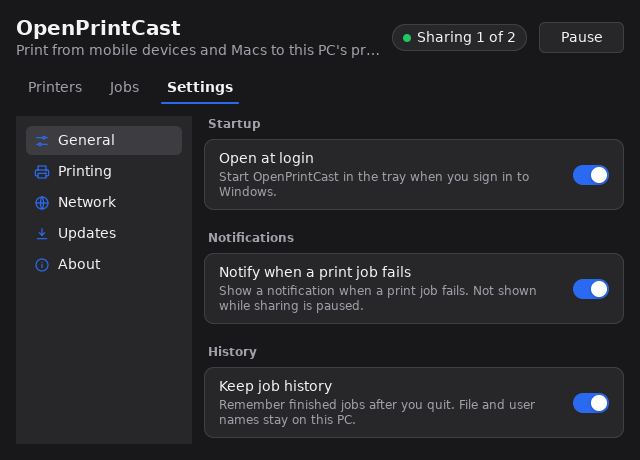
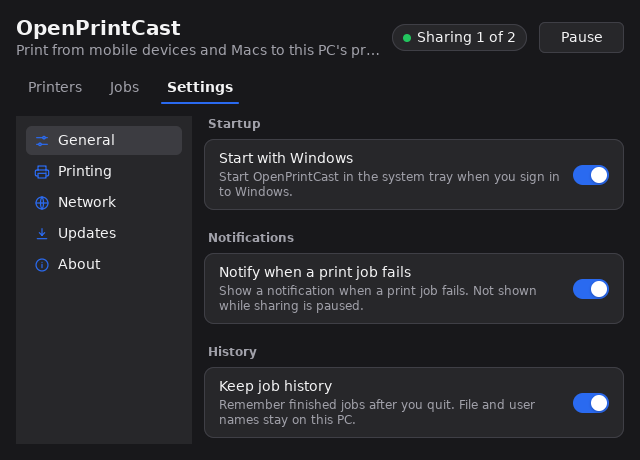
Reword the tray copy, and call the startup switch Start with Windows
The site now says the app runs in the system tray, the term Windows uses,
and lists what it does for you in plain sentences. The app's setting was
labelled Open at login, a macOS phrase; Windows users expect Start with
Windows. Update the label, its explanation and error message, the tests,
the docs, and the Settings screenshots on the site.

Changed region(s): [[0.5938, 0.3652, 0.875, 0.3957], [0.3438, 0.3348, 0.5625, 0.3652], [0.3438, 0.3957, 0.4688, 0.4261]]

diff --git a/docs/index.html b/docs/index.html
@@ -227,7 +227,7 @@
     <section class="section" id="how" aria-labelledby="how-title">
       <h2 id="how-title">Share a printer in three steps.</h2>
       <ol class="steps">
-        <li data-anim><span class="num" aria-hidden="true">1</span><h3>Open it</h3><p>OpenPrintCast lives in the tray. Close the window and it keeps running.</p></li>
+        <li data-anim><span class="num" aria-hidden="true">1</span><h3>Open it</h3><p>OpenPrintCast runs in the system tray. Close the window and it keeps sharing.</p></li>
         <li data-anim><span class="num" aria-hidden="true">2</span><h3>Switch on a printer</h3><p>On the Printers tab, turn on the ones you want to share.</p></li>
         <li data-anim><span class="num" aria-hidden="true">3</span><h3>Tap Print</h3><p>Pick it in the print dialog on your device. On a Mac, add it once in Printers &amp; Scanners.</p></li>
       </ol>
@@ -235,12 +235,12 @@
 
     <section class="section split" aria-labelledby="tray-title">
       <div class="split-text" data-anim>
-        <h2 id="tray-title">Starts with Windows.<br>Lives in the tray.</h2>
+        <h2 id="tray-title">Runs quietly in your system tray.</h2>
         <ul class="ticks">
-          <li><strong>Open at login</strong> starts it with Windows, hidden in the tray.</li>
-          <li><strong>Notifications</strong> tell you the moment a print job fails.</li>
-          <li><strong>Job history</strong> is still there after a restart. Turn it off whenever you like.</li>
-          <li><strong>Light and dark</strong> follow your Windows theme.</li>
+          <li><strong>Starts when you sign in</strong> to Windows.</li>
+          <li><strong>Tells you</strong> the moment a print job fails.</li>
+          <li><strong>Remembers</strong> your recent jobs. Turn that off whenever you like.</li>
+          <li><strong>Follows</strong> your Windows light or dark theme.</li>
         </ul>
       </div>
       <figure class="shot fade" data-anim>
@@ -248,7 +248,7 @@
           <source media="(max-width: 600px) and (prefers-color-scheme: dark)" srcset="assets/img/settings-m-dark.png" width="640" height="460">
           <source media="(max-width: 600px)" srcset="assets/img/settings-m.png" width="640" height="460">
           <source media="(prefers-color-scheme: dark)" srcset="assets/img/settings-dark.png">
-          <img src="assets/img/settings.png" width="860" height="440" loading="lazy" alt="The Settings tab with a sidebar of sections and switches for Open at login, notifications and job history.">
+          <img src="assets/img/settings.png" width="860" height="440" loading="lazy" alt="The Settings tab with a sidebar of sections and switches for starting with Windows, notifications and job history.">
         </picture>
       </figure>
     </section>

diff --git a/cmd/openprintcast/app_startup_test.go b/cmd/openprintcast/app_startup_test.go
@@ -58,17 +58,17 @@ func TestStartupGroupWordingAndAccessibleLabel(t *testing.T) {
 	app := newTestApp(t)
 	app.tab = 2
 	tt := ui.NewTester(app.view, 860, 620)
-	scrollToControl(t, tt, ui.RoleSwitch, openAtLoginLabel, 620)
-	for _, want := range []string{"Startup", "Open at login", "Start OpenPrintCast in the tray when you sign in to Windows."} {
+	scrollToControl(t, tt, ui.RoleSwitch, startWithWindowsLabel, 620)
+	for _, want := range []string{"Startup", "Start with Windows", "Start OpenPrintCast in the system tray when you sign in to Windows."} {
 		if !tt.HasText(want) {
 			t.Errorf("startup group missing %q; texts: %q", want, tt.Texts())
 		}
 	}
-	if _, ok := tt.Access(openAtLoginLabel); !ok {
-		t.Fatal("nothing is labelled Open at login")
+	if _, ok := tt.Access(startWithWindowsLabel); !ok {
+		t.Fatal("nothing is labelled Start with Windows")
 	}
-	if sw, ok := tt.AccessByRole(ui.RoleSwitch, openAtLoginLabel); !ok || sw.Checked {
-		t.Fatalf("Open at login: %+v, found %t", sw, ok)
+	if sw, ok := tt.AccessByRole(ui.RoleSwitch, startWithWindowsLabel); !ok || sw.Checked {
+		t.Fatalf("Start with Windows: %+v, found %t", sw, ok)
 	}
 }
 
@@ -79,19 +79,19 @@ func TestOpenAtLoginSwitchCallsItemAndKeepsStateOnSuccess(t *testing.T) {
 	app.startupEntry = item
 	tt := ui.NewTester(app.view, 860, 620)
 
-	if sw := toggleSwitch(t, tt, openAtLoginLabel); !sw.Checked {
+	if sw := toggleSwitch(t, tt, startWithWindowsLabel); !sw.Checked {
 		t.Fatal("switch did not turn on")
 	}
 	if !app.openAtLogin || !item.enabled {
 		t.Fatalf("state not kept: ui %t, item %t", app.openAtLogin, item.enabled)
 	}
-	if sw := toggleSwitch(t, tt, openAtLoginLabel); sw.Checked {
+	if sw := toggleSwitch(t, tt, startWithWindowsLabel); sw.Checked {
 		t.Fatal("switch did not turn off")
 	}
 	if want := []bool{true, false}; !reflect.DeepEqual(item.calls, want) {
 		t.Fatalf("SetEnabled calls = %v, want %v", item.calls, want)
 	}
-	if tt.HasText(openAtLoginFailed) {
+	if tt.HasText(startWithWindowsFailed) {
 		t.Fatal("a toast was shown on success")
 	}
 }
@@ -103,13 +103,13 @@ func TestOpenAtLoginSwitchRevertsAndToastsOnError(t *testing.T) {
 	app.startupEntry = item
 	tt := ui.NewTester(app.view, 860, 620)
 
-	if sw := toggleSwitch(t, tt, openAtLoginLabel); sw.Checked {
+	if sw := toggleSwitch(t, tt, startWithWindowsLabel); sw.Checked {
 		t.Fatal("switch stayed on after the item refused")
 	}
 	if app.openAtLogin {
 		t.Fatal("UI state not reverted")
 	}
-	if !tt.HasText("Couldn't change Open at login. Try again, or change it in Windows Settings > Apps > Startup.") {
+	if !tt.HasText("Couldn't change Start with Windows. Try again, or change it in Windows Settings > Apps > Startup.") {
 		t.Fatalf("toast missing; texts: %q", tt.Texts())
 	}
 	if len(item.calls) != 1 || !item.calls[0] {

diff --git a/cmd/openprintcast/app_startup.go b/cmd/openprintcast/app_startup.go
@@ -7,9 +7,9 @@ import (
 
 // Start-at-login wording.
 const (
-	openAtLoginLabel  = "Open at login"
-	openAtLoginDetail = "Start OpenPrintCast in the tray when you sign in to Windows."
-	openAtLoginFailed = "Couldn't change Open at login. Try again, or change it in Windows Settings > Apps > Startup."
+	startWithWindowsLabel  = "Start with Windows"
+	startWithWindowsDetail = "Start OpenPrintCast in the system tray when you sign in to Windows."
+	startWithWindowsFailed = "Couldn't change Start with Windows. Try again, or change it in Windows Settings > Apps > Startup."
 )
 
 // startupItem is the system's "start with the user's session" entry.
@@ -70,6 +70,6 @@ func (a *bridgeApp) openAtLoginChanged(c *ui.Context) {
 	if err := a.startup().SetEnabled(enabled); err != nil {
 		a.openAtLogin = !enabled
 		componentLogger(componentApp).Warn("set open at login failed", "enabled", enabled, "err", err)
-		c.Toast(openAtLoginFailed)
+		c.Toast(startWithWindowsFailed)
 	}
 }

diff --git a/cmd/openprintcast/view_settings_system.go b/cmd/openprintcast/view_settings_system.go
@@ -11,12 +11,12 @@ const (
 	noLogFileText        = "Not available"
 )
 
-// startupGroup holds the Open at login switch; the login item applies it.
+// startupGroup holds the Start with Windows switch; the login item applies it.
 func (a *bridgeApp) startupGroup(c *ui.Context) {
 	groupHeader(c, "Startup", nil)
 	listGroupInset(c, settingInset, func() {
-		settingRow(c, openAtLoginLabel, openAtLoginDetail, func() {
-			if ui.Switch(c, &a.openAtLogin).Label(openAtLoginLabel).Changed() {
+		settingRow(c, startWithWindowsLabel, startWithWindowsDetail, func() {
+			if ui.Switch(c, &a.openAtLogin).Label(startWithWindowsLabel).Changed() {
 				a.openAtLoginChanged(c)
 			}
 		})

diff --git a/cmd/openprintcast/app.go b/cmd/openprintcast/app.go
@@ -98,7 +98,7 @@ type bridgeApp struct {
 	logs     logControl
 	openPath pathOpener
 
-	// startupEntry is the sign-in item behind the Open at login switch
+	// startupEntry is the sign-in item behind the Start with Windows switch
 	// (nil: always off) and openAtLogin the state that switch shows.
 	startupEntry startupItem
 	openAtLogin  bool

diff --git a/cmd/openprintcast/README.md b/cmd/openprintcast/README.md
@@ -40,7 +40,7 @@ Releases use plain `go build -ldflags "-H windowsgui ..."` instead (see
   backup that is used to recover a damaged file. A legacy `config.json`
   beside the executable is imported once. Closing the window hides it to
   the tray; Quit comes from the tray menu.
-- Settings > Startup "Open at login" calls `mygo.App.SetOpenAtLogin`, a
+- Settings > Startup "Start with Windows" calls `mygo.App.SetOpenAtLogin`, a
   per-user `Run` entry on Windows; the app then starts hidden in the tray.
   The installer's uninstall step removes that entry (it knows the value
   names mygo uses: the package identifier or the executable name).
